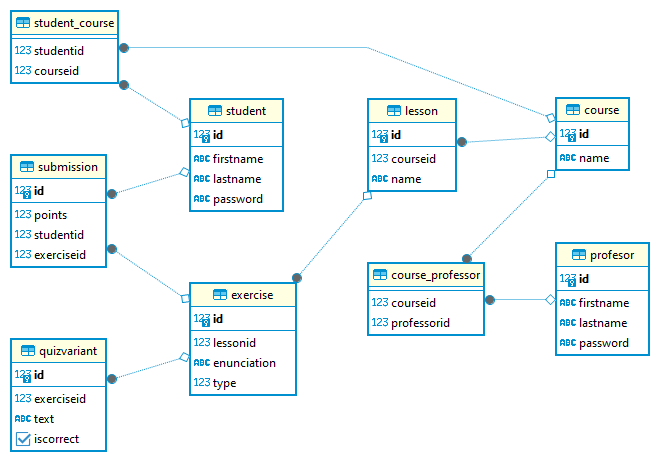
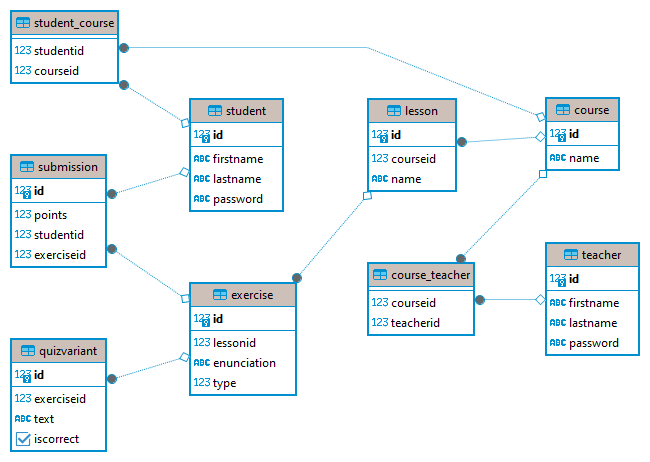
Renamed Professor to Teacher

diff --git a/Licenta/Licenta.Db/DataSeeder.cs b/Licenta/Licenta.Db/DataSeeder.cs
@@ -11,14 +11,14 @@ namespace Licenta.Db
         private readonly IDapperDbClient _dbClient;
         private readonly IDbFactory _dbFactory;
         private readonly CourseRepository CourseRepository;
-        private readonly ProfessorRepository ProfessorRepository;
+        private readonly TeacherRepository TeacherRepository;
         private readonly StudentRepository StudentRepository;
         private readonly LessonRepository LessonRepository;
         private readonly ExerciseRepository ExerciseRepository;
         private readonly QuizVariantsRepository QuizVariantsRepository;
         private readonly SubmissionRepository SubmissionRepository;
         private readonly StudentCourseRepository StudentCourseRepository;
-        private readonly CourseProfessorRepository CourseProfessorRepository;
+        private readonly CourseTeacherRepository CourseTeacherRepository;
 
 
 
@@ -33,14 +33,14 @@ namespace Licenta.Db
             IDapperDbClient dbClient = new DapperDbClient(dbFactory);
             _dbClient = dbClient;
             CourseRepository = new CourseRepository(_dbClient);
-            ProfessorRepository = new ProfessorRepository(_dbClient);
+            TeacherRepository = new TeacherRepository(_dbClient);
             StudentRepository = new StudentRepository(_dbClient);
             LessonRepository = new LessonRepository(_dbClient);
             ExerciseRepository = new ExerciseRepository(_dbClient);
             QuizVariantsRepository = new QuizVariantsRepository(_dbClient);
             SubmissionRepository = new SubmissionRepository(_dbClient);
             StudentCourseRepository = new StudentCourseRepository(_dbClient);
-            CourseProfessorRepository = new CourseProfessorRepository(_dbClient);
+            CourseTeacherRepository = new CourseTeacherRepository(_dbClient);
         }
 
 
@@ -55,9 +55,9 @@ namespace Licenta.Db
 
         private async Task DropAll()
         {
-            await DropTable(CourseProfessorRepository);
+            await DropTable(CourseTeacherRepository);
             await DropTable(StudentCourseRepository);
-            await DropTable(ProfessorRepository);
+            await DropTable(TeacherRepository);
             await DropTable(QuizVariantsRepository);
             await DropTable(SubmissionRepository);
             await DropTable(ExerciseRepository);
@@ -69,40 +69,40 @@ namespace Licenta.Db
         private async Task CreateTables()
         {
             await CreateTable(CourseRepository);
-            await CreateTable(ProfessorRepository);
+            await CreateTable(TeacherRepository);
             await CreateTable(StudentRepository);
             await CreateTable(LessonRepository);
             await CreateTable(ExerciseRepository);
             await CreateTable(QuizVariantsRepository);
             await CreateTable(SubmissionRepository);
             await CreateTable(StudentCourseRepository);
-            await CreateTable(CourseProfessorRepository);
+            await CreateTable(CourseTeacherRepository);
         }
 
         private async Task InsertData()
         {
             await GenericInsertData(CourseRepository, DataSampling.GetCourses);
-            await GenericInsertData(ProfessorRepository, DataSampling.GetProfesor);
+            await GenericInsertData(TeacherRepository, DataSampling.GetTeacher);
             await GenericInsertData(StudentRepository, DataSampling.GetStudents);
             await GenericInsertData(LessonRepository, DataSampling.GetLesson);
             await GenericInsertData(ExerciseRepository, DataSampling.GetExercise);
             await GenericInsertData(QuizVariantsRepository, DataSampling.GetQuizVariants);
             await GenericInsertData(SubmissionRepository, DataSampling.GetSubmissions);
             await GenericInsertData(StudentCourseRepository, DataSampling.GetStudentCourse);
-            await GenericInsertData(CourseProfessorRepository, DataSampling.GetCourseProfesor);
+            await GenericInsertData(CourseTeacherRepository, DataSampling.GetCourseTeacher);
         }
 
         private async Task LogResults()
         {
             await LogResult(CourseRepository);
-            await LogResult(ProfessorRepository);
+            await LogResult(TeacherRepository);
             await LogResult(StudentRepository);
             await LogResult(LessonRepository);
             await LogResult(ExerciseRepository);
             await LogResult(QuizVariantsRepository);
             await LogResult(SubmissionRepository);
             await LogResult(StudentCourseRepository);
-            await LogResult(CourseProfessorRepository);
+            await LogResult(CourseTeacherRepository);
         }
 
         private async Task DropTable<T>(BaseRepository<T> repository)

diff --git a/Licenta/Licenta.Db/Seeder/DataSampling.cs b/Licenta/Licenta.Db/Seeder/DataSampling.cs
@@ -22,20 +22,20 @@ namespace Licenta.Db.Seeder
         ];
             return objects;
         }
-        public static Profesor[] GetProfesor()
+        public static Teacher[] GetTeacher()
         {
-            Profesor[] objects =
+            Teacher[] objects =
              [
-                new Profesor(1, "John", "Smith", "password1"),
-                 new Profesor(2, "Alice", "Johnson", "password2"),
-                 new Profesor(3, "Michael", "Brown", "password3"),
-                 new Profesor(4, "Emily", "Davis", "password4"),
-                 new Profesor(5, "David", "Martinez", "password5"),
-                 new Profesor(6, "Sarah", "Garcia", "password6"),
-                 new Profesor(7, "Chris", "Wilson", "password7"),
-                 new Profesor(8, "Jennifer", "Lopez", "password8"),
-                 new Profesor(9, "Daniel", "Lee", "password9"),
-                 new Profesor(10, "Laura", "Taylor", "password10")
+                new Teacher(1, "John", "Smith", "password1"),
+                 new Teacher(2, "Alice", "Johnson", "password2"),
+                 new Teacher(3, "Michael", "Brown", "password3"),
+                 new Teacher(4, "Emily", "Davis", "password4"),
+                 new Teacher(5, "David", "Martinez", "password5"),
+                 new Teacher(6, "Sarah", "Garcia", "password6"),
+                 new Teacher(7, "Chris", "Wilson", "password7"),
+                 new Teacher(8, "Jennifer", "Lopez", "password8"),
+                 new Teacher(9, "Daniel", "Lee", "password9"),
+                 new Teacher(10, "Laura", "Taylor", "password10")
              ];
             return objects;
         }
@@ -131,23 +131,23 @@ namespace Licenta.Db.Seeder
              ];
             return objects;
         }
-        public static Course_Professor[] GetCourseProfesor()
+        public static Course_Teacher[] GetCourseTeacher()
         {
-            Course_Professor[] objects =
+            Course_Teacher[] objects =
             [
-                new Course_Professor(1, 1),
-                new Course_Professor(1, 2),
-                new Course_Professor(1, 3),
-                new Course_Professor(2, 2),
-                new Course_Professor(2, 3),
-                new Course_Professor(3, 3),
-                new Course_Professor(4, 4),
-                new Course_Professor(5, 5),
-                new Course_Professor(6, 6),
-                new Course_Professor(7, 7),
-                new Course_Professor(8, 8),
-                new Course_Professor(9, 9),
-                new Course_Professor(10, 10)
+                new Course_Teacher(1, 1),
+                new Course_Teacher(1, 2),
+                new Course_Teacher(1, 3),
+                new Course_Teacher(2, 2),
+                new Course_Teacher(2, 3),
+                new Course_Teacher(3, 3),
+                new Course_Teacher(4, 4),
+                new Course_Teacher(5, 5),
+                new Course_Teacher(6, 6),
+                new Course_Teacher(7, 7),
+                new Course_Teacher(8, 8),
+                new Course_Teacher(9, 9),
+                new Course_Teacher(10, 10)
             ];
             return objects;
         }

diff --git a/Licenta/Licenta.Db/Repositories/CourseTeacherRepository.cs b/Licenta/Licenta.Db/Repositories/CourseTeacherRepository.cs
@@ -8,9 +8,9 @@ using System.Threading.Tasks;
 
 namespace Licenta.Db.Repositories
 {
-    internal class CourseProfessorRepository : BaseRepository<Course_Professor>
+    internal class CourseTeacherRepository : BaseRepository<Course_Teacher>
     {
-        public CourseProfessorRepository(IDapperDbClient dbClient) : base(dbClient)
+        public CourseTeacherRepository(IDapperDbClient dbClient) : base(dbClient)
         {
         }
 
@@ -19,15 +19,15 @@ namespace Licenta.Db.Repositories
             string sql = $"""
                 CREATE TABLE {_tableName} (
                     CourseId INT REFERENCES Course(Id),
-                    ProfessorId INT REFERENCES Profesor(Id)
+                    TeacherId INT REFERENCES Teacher(Id)
                 );
                 """;
             await _dbClient.ExecuteAsync(sql);
         }
 
-        public override async Task InsertAsync(Course_Professor data)
+        public override async Task InsertAsync(Course_Teacher data)
         {
-            string sql = $"INSERT INTO {_tableName} (CourseId, ProfessorId) VALUES (@CourseId, @ProfessorId)";
+            string sql = $"INSERT INTO {_tableName} (CourseId, TeacherId) VALUES (@CourseId, @TeacherId)";
             var rowsAffected = await _dbClient.ExecuteAsync(sql, data);
         }
     }

diff --git a/Licenta/Licenta.Db/Repositories/TeacherRepository.cs b/Licenta/Licenta.Db/Repositories/TeacherRepository.cs
@@ -3,9 +3,9 @@ using Licenta.Db.Seeder.Interfaces;
 
 namespace Licenta.Db.Repositories
 {
-    public class ProfessorRepository : BaseRepository<Profesor>
+    public class TeacherRepository : BaseRepository<Teacher>
     {
-        public ProfessorRepository(IDapperDbClient dbClient) : base(dbClient)
+        public TeacherRepository(IDapperDbClient dbClient) : base(dbClient)
         {
         }
 
@@ -22,7 +22,7 @@ namespace Licenta.Db.Repositories
             await _dbClient.ExecuteAsync(sql);
         }
 
-        public override async Task InsertAsync(Profesor data)
+        public override async Task InsertAsync(Teacher data)
         {
             string sql = $"""
                 INSERT INTO {_tableName}

diff --git a/Licenta/Licenta.Db/DataModel/Course_Teacher.cs b/Licenta/Licenta.Db/DataModel/Course_Teacher.cs
@@ -6,20 +6,20 @@ using System.Threading.Tasks;
 
 namespace Licenta.Db.DataModel
 {
-    internal class Course_Professor
+    internal class Course_Teacher
     {
         public int CourseId { get; set; } = 0;
-        public int ProfessorId { get; set; } = 0;
+        public int TeacherId { get; set; } = 0;
 
-        public Course_Professor()
+        public Course_Teacher()
         {
 
         }
 
-        public Course_Professor(int courseId, int professorId)
+        public Course_Teacher(int courseId, int teacherId)
         {
             CourseId = courseId;
-            ProfessorId = professorId;
+            TeacherId = teacherId;
         }
     }
 }

diff --git a/Licenta/Licenta.Db/DataModel/Teacher.cs b/Licenta/Licenta.Db/DataModel/Teacher.cs
@@ -1,18 +1,18 @@
 namespace Licenta.Db.DataModel
 {
-    public class Profesor
+    public class Teacher
     {
         public int Id { get; set; } = 0;
         public string Firstname { get; set; } = string.Empty;
         public string Lastname { get; set; } = string.Empty;
         public string Password { get; set; } = string.Empty;
 
-        public Profesor()
+        public Teacher()
         {
 
         }
 
-        public Profesor(int id, string firstname, string lastname, string password)
+        public Teacher(int id, string firstname, string lastname, string password)
         {
             Id = id;
             Firstname = firstname;

diff --git a/Licenta/Licenta.Db/readme.md b/Licenta/Licenta.Db/readme.md
@@ -3,13 +3,13 @@ Lesson
 Exercice (quiz or code)
 Quiz variants
 Student
-Profesor
+Teacher
 Submissions
 
 One course has many Lessons
-one course has one or many profesors
+one course has one or many Teacher
 one course has many students
-profesor has many courses
+Teacher has many courses
 One lesson has code exercise or quiz exercise 
 (quiz) exercise has quiz variants
 one exercise has many submisions
@@ -50,7 +50,7 @@ password (encrypted) : string
 courseId : string
 
 
-Profesor
+Teacher
 id : string
 firstname : string
 lastname : string
@@ -62,7 +62,7 @@ points : int (% out of 100)
 studentId : string
 exerciseId : string
 
-Course_Profesor
+Course_Teacher
 courseId: string
-profesorId : string
+TeacherId : string
 
